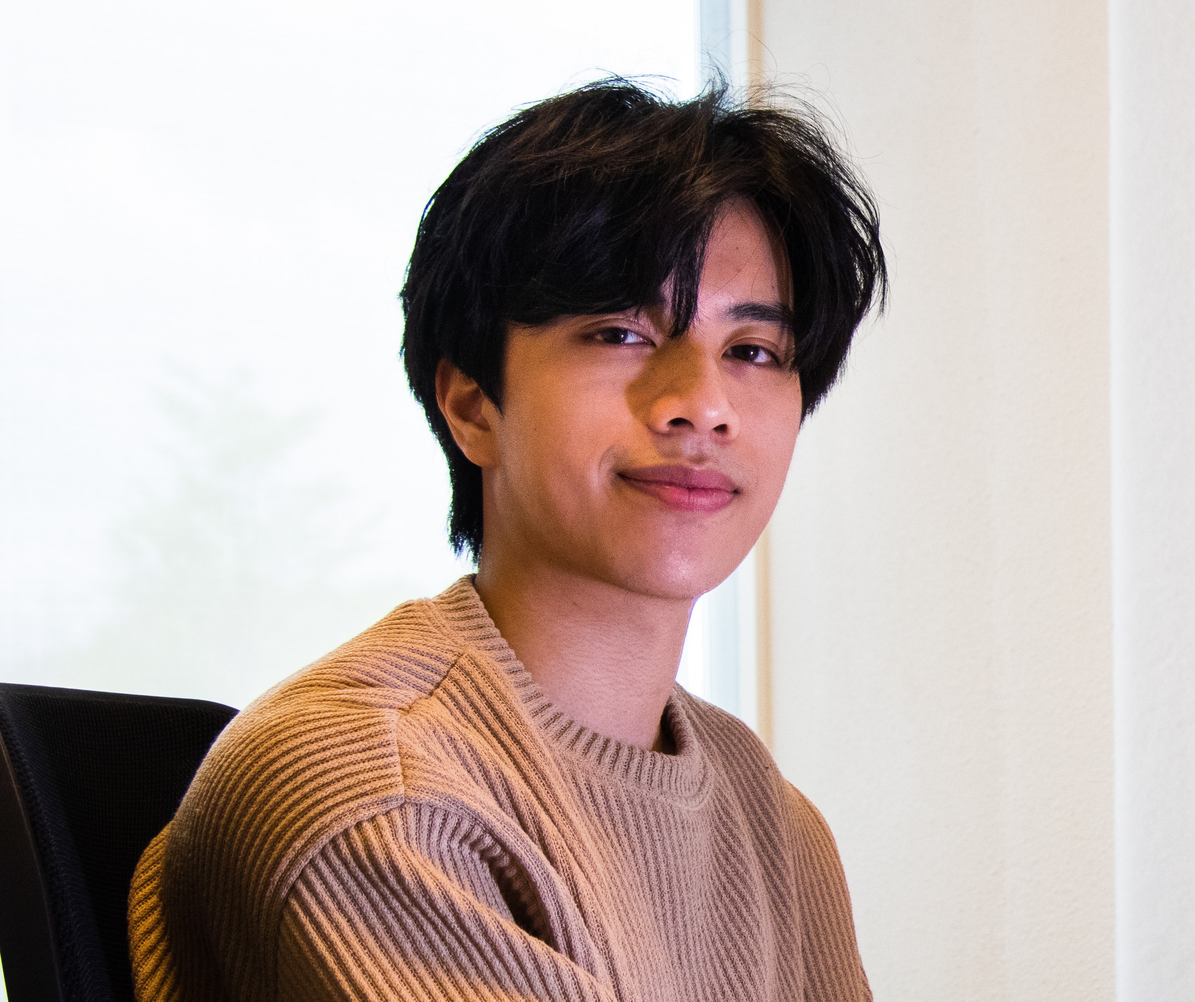
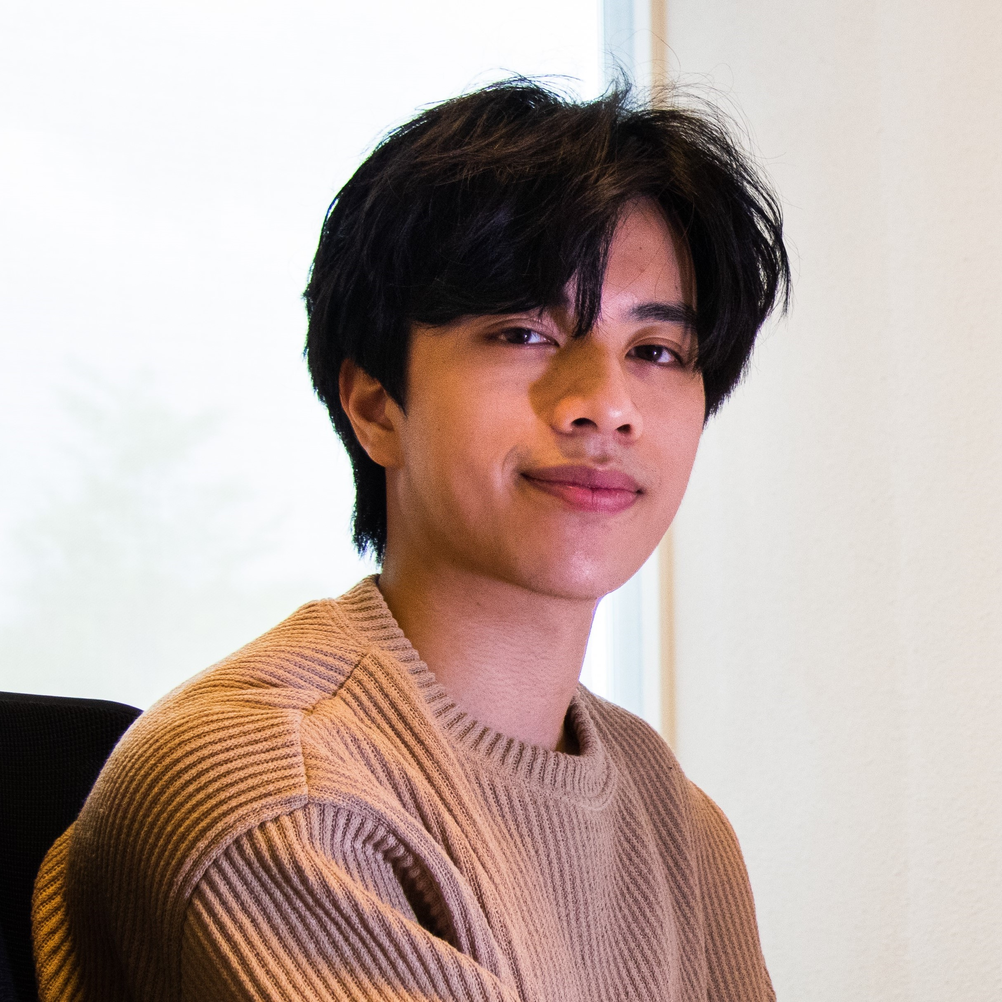
update

diff --git a/aboutus.html b/aboutus.html
@@ -41,67 +41,24 @@
 				<!-- Main -->
 					<article id="main">
 						<header>
-							<h2>Elements</h2>
-							<p>Aliquam ut ex ut interdum donec amet imperdiet eleifend</p>
+							<h2>about us</h2>
+							<p>#staysober&nbsp;</p>
 						</header>
 						<section class="wrapper style5">
 							<div class="inner">
 
-								<div class="box alt">
-										<div class="row gtr-50 gtr-uniform">
-											
-											<div class="col-6">
-												<!-- item block -->
-												<div class="item item1">
-													<!-- item image -->
-													<div class="image fit">
-														<img src="images/theclassic.jpg" alt="" />
-													</div>
-														<!-- item button -->
-														<a href="contact.html" class="button primary">add to cart</a>
-												</div>
-											</div>
-											
-											<div class="col-6">
-												<!-- item block -->
-												<div class="item item1">
-													<!-- item image -->
-													<div class="image fit">
-														<img src="images/theprincess.jpg" alt="" />
-													</div>
-														<!-- item button -->
-														<a href="contact.html" class="button primary">add to cart</a>
-												</div>
-											</div>
-											<div class="col-6">
-												<!-- item block -->
-												<div class="item item3">
-													<!-- item image -->
-													<div class="image fit">
-														<img src="images/thebro.jpg" alt="" />
-													</div>
-														<!-- item button -->
-														<a href="contact.html" class="button primary">add to cart</a>
-												</div>
-											</div>
-
-											<div class="col-6">
-												<!-- item block -->
-												<div class="item item3">
-													<!-- item image -->
-													<div class="image fit">
-														<img src="images/theboujee.jpg" alt="" />
-													</div>
-														<!-- item button -->
-														<a href="contact.html" class="button primary" style="  display: flex;
-														justify-content: center;
-														align-items: center;">add to cart</a>
-												</div>
-											</div>
-											
-										</div>
-									</div>
-						</section>
+								<section>
+									<h4>Text</h4>
+									<p>“In a world full of social judgments based on choices and principles, we believe that self-expression should not be frowned upon because only then can we tap into an inclusive world full of unique creativity, desires, and passions” 
+ 
+Citra is a non-alcoholic beer that stands for an equitable society in which everyone is free to do what they want and express themselves. You may pick your identity from a variety of labels that serve as a social accessory. Everyone has the right to be themselves. #staysober</p>
+									<hr />
+									<header>
+										<h4>Heading with a Subtitle</h4>
+										<p>Lorem ipsum dolor sit amet nullam id egestas urna aliquam</p>
+									</header>
+									<p>Nunc lacinia ante nunc ac lobortis. Interdum adipiscing gravida odio porttitor sem non mi integer non faucibus ornare mi ut ante amet placerat aliquet. Volutpat eu sed ante lacinia sapien lorem accumsan varius montes viverra nibh in adipiscing blandit tempus accumsan.</p>
+									<header>
 					</article>
 
 				<!-- Footer -->

diff --git a/index.html b/index.html
@@ -118,28 +118,28 @@ background-size: cover;
 								<div class="col-4">
 									<!-- item block -->
 									<div class="item item1">
-										<div class="image"><img src="images/nickymai2.jpg" max height="200 px" alt="" /></div>
+										<div class="image"><img src="images/nickymai2.jpg" style="border-radius: 50%" max height="200 px" alt="" /></div>
 											<h3>NIcky Mai</h3>
 											<p>Production Manager</p>
 										</div>
 									</div>
-								</div>
+								
 
 							
 								<div class="col-4">
 									<!-- item block -->
 									<div class="item item1">
-										<div class="image"><img src="images/oana.jpeg" max height="200 px" alt="" /></div>
+										<div class="image"><img src="images/oana.jpeg" style="border-radius: 50%" max height="200 px" alt="" /></div>
 											<h3>Oana Micu</h3>
 											<p>Content Manager</p>
 										</div>
 									</div>
-								</div>
+								
 
 							<div class="col-4">
 									<!-- item block -->
 									<div class="item item1">
-										<div class="image"><img src="images/swenja.jpeg" max height="200 px" alt="" /></div>
+										<div class="image"><img src="images/swenja.jpeg" style="border-radius: 50%" max height="200 px" alt="" /></div>
 											<h3>Swenja Wirk</h3>
 											<p>Marketing Manager</p>
 										</div>

diff --git a/assets/css/main.css b/assets/css/main.css
@@ -2817,7 +2817,7 @@ input, select, textarea {
 		}
 
 		.wrapper.style1 {
-			background-color: #717ec3;
+			background-color: #ff66c4;
 			color: #c8ece9;
 		}
 
@@ -3351,7 +3351,7 @@ input, select, textarea {
 		-ms-transition: -ms-transform 0.5s ease;
 		transition: transform 0.5s ease;
 		-webkit-overflow-scrolling: touch;
-		background: #21b2a6;
+		background: #ff66c4;
 		color: #ffffff;
 		height: 100%;
 		max-width: 80%;
